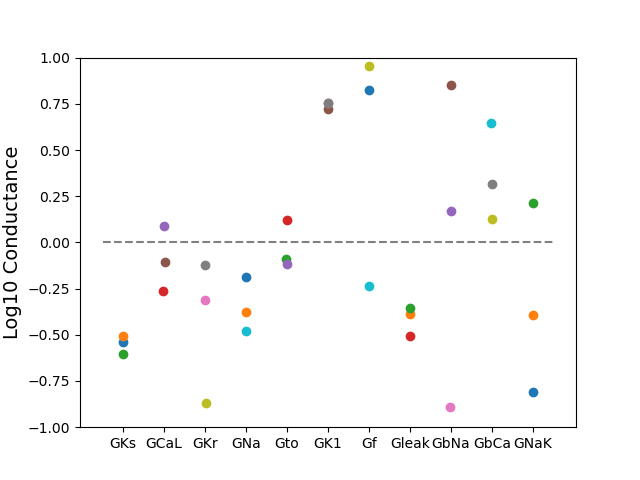
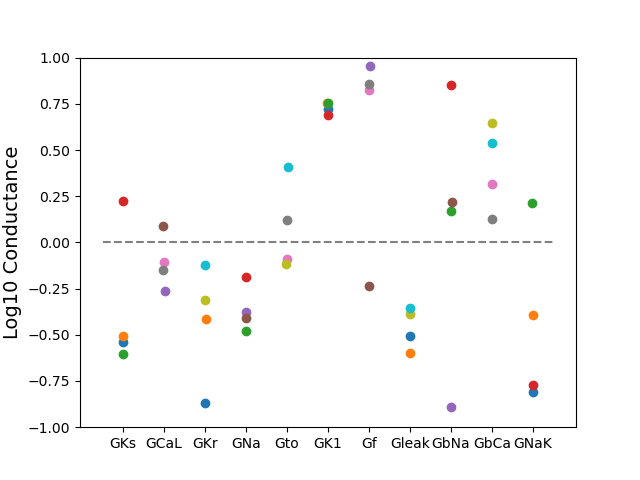
newind

diff --git a/GA_cond/plot_GA.py b/GA_cond/plot_GA.py
@@ -14,9 +14,9 @@ from scipy.signal import find_peaks
 t, v = baseline_run()
 plt.plot(t, v, '-k', label = 'Baseline')
 
-ind_1, ind_2, ind_3 = ind_excel()
+ind_1, ind_2, ind_3, ind_4 = ind_excel()
 
-pop = [ind_1, ind_2, ind_3]
+pop = [ind_1, ind_2, ind_3, ind_4]
 
 for i in list(range(0,len(pop))):
     t, v = plot_GA(pop[i])
@@ -58,9 +58,9 @@ ap_features['mdp']= mdp
 ############ PLOT BEST ERROR ################
 gen = [i for i in list(range(1,80))]
 
-err_1, err_2, err_3 = err_excel()
+err_1, err_2, err_3, err_4 = err_excel()
 
-err = [err_1, err_2, err_3]
+err = [err_1, err_2, err_3, err_4]
 
 for i in list(range(0,len(err))):
     best_err = list(err[i]['Avg Error'])

diff --git a/GA_cond/functions.py b/GA_cond/functions.py
@@ -158,7 +158,10 @@ def ind_excel():
     ind_3 = pd.read_excel('Best_ind3.xlsx')
     ind_3 = ind_3.to_dict('index')
 
-    return ind_1, ind_2, ind_3
+    ind_4 = pd.read_excel('Best_ind4.xlsx')
+    ind_4 = ind_4.to_dict('index')
+
+    return ind_1, ind_2, ind_3, ind_4
 
 #%%
 def err_excel():
@@ -169,4 +172,6 @@ def err_excel():
 
     err_3 = pd.read_excel('Errors3.xlsx')
 
-    return err_1, err_2, err_3
+    err_4 = pd.read_excel('Errors4.xlsx')
+
+    return err_1, err_2, err_3, err_4

diff --git a/GA_cond/CTRL_GA_leak.py b/GA_cond/CTRL_GA_leak.py
@@ -436,7 +436,7 @@ def plot_generation(inds,
     df.to_excel('Best_ind.xlsx', sheet_name='Sheet1', index=False)
 
 #%%
-def start_ga(pop_size=10, max_generations=2):
+def start_ga(pop_size=100, max_generations=20):
     feature_targets  =     {'dvdt_max': [6.72, 7.15, 7.58],
                              'peak': [21.4, 24.1, 26.8],
                              'apa': [73.6, 79.68, 85.76],
